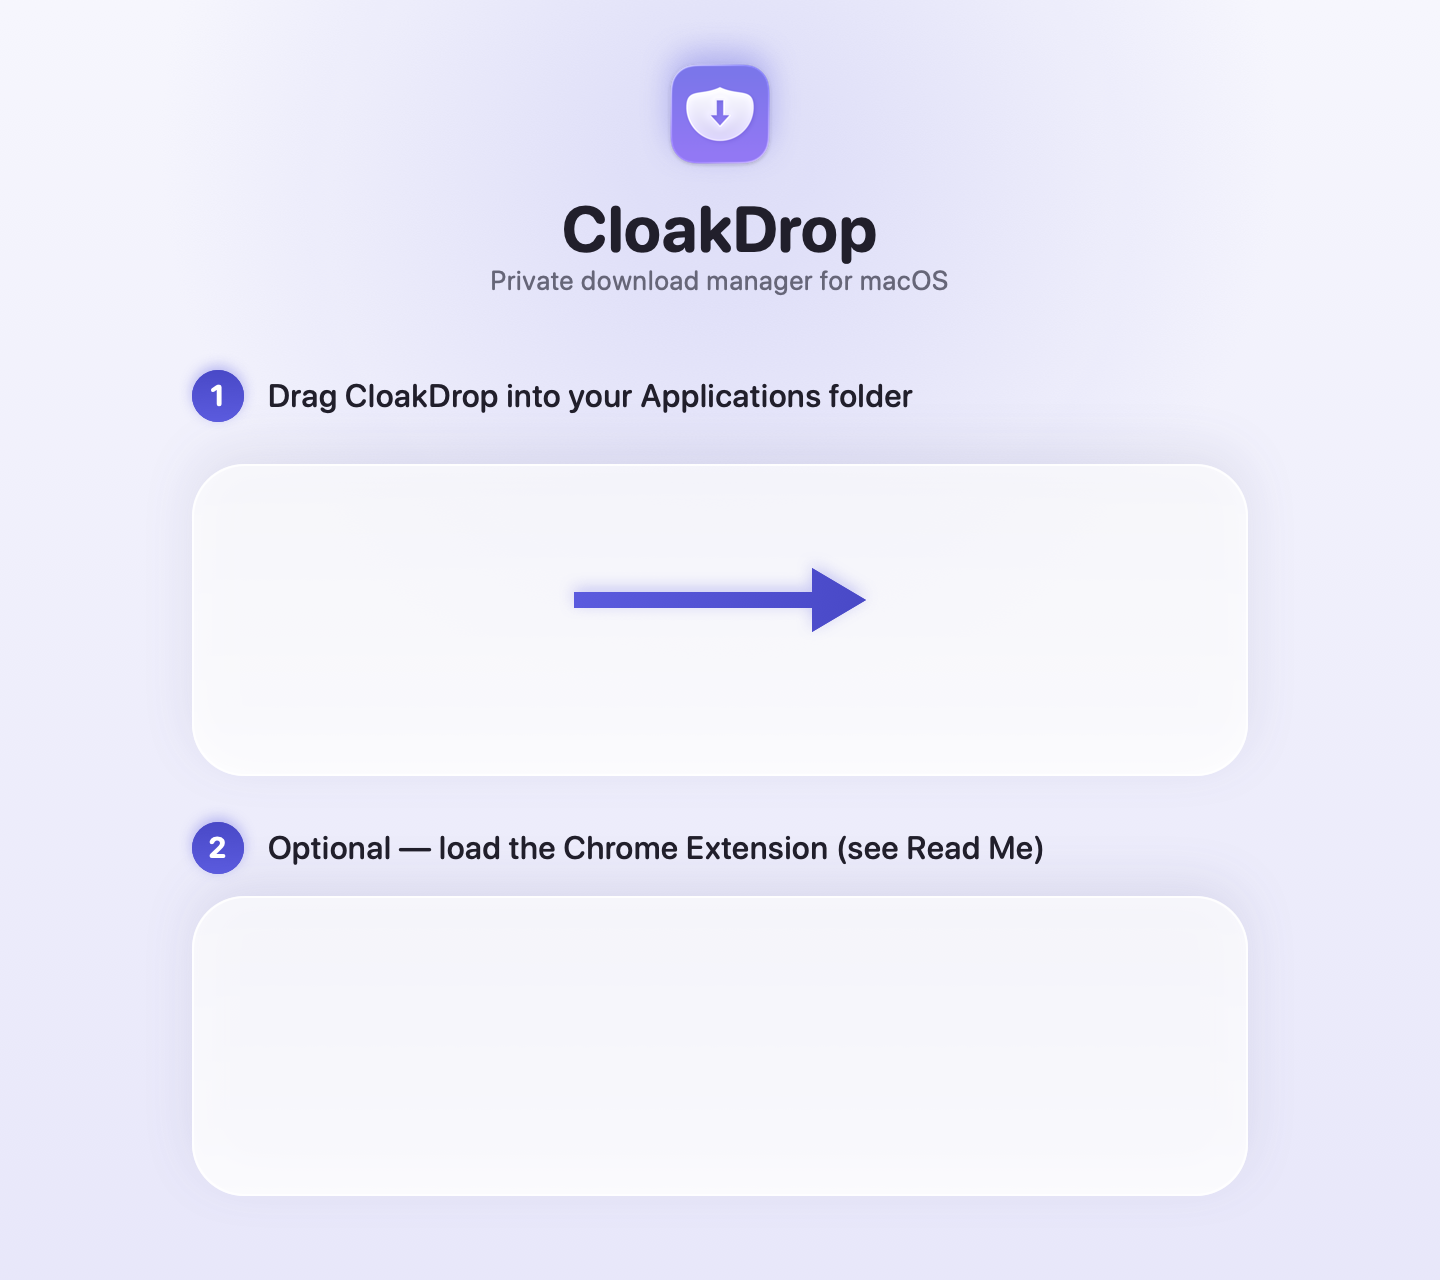
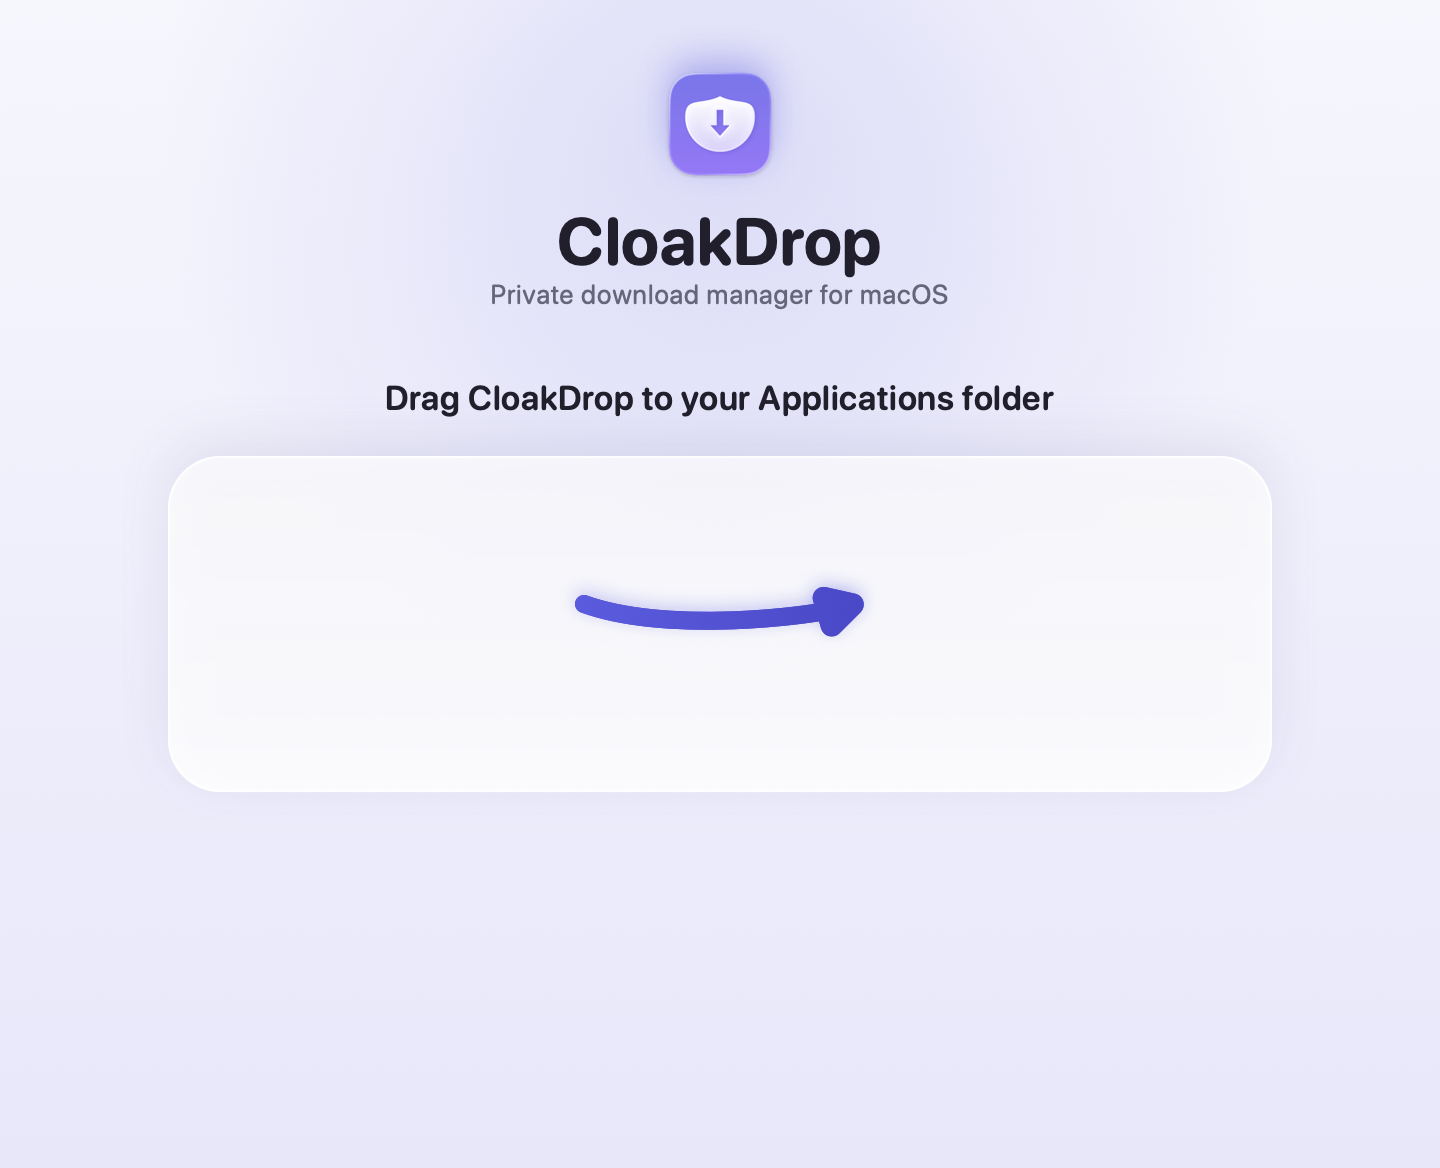
DMG: curved swoosh arrow + cleaner modern layout
- Replace the stiff straight arrow with a gentle curved swoosh: a cubic
  bow with a tangent-aligned, soft-rounded arrowhead. Shaft and head are
  filled as two overlapping pieces (their stroke outlines wind oppositely,
  so a single combined fill punched a hole at the join) — now continuous.
- Drop the numbered step badge for a clean centred instruction; remove the
  caption that overlapped the Read Me icon; taller canvas (560→584) so the
  Read Me label clears the window edge; rebalanced spacing.

Changed region(s): [[0.125, 0.0308, 0.7188, 0.4007], [0.125, 0.6164, 0.7188, 0.6781], [0.375, 0.4315, 0.5938, 0.5548]]

diff --git a/scripts/dmg/background.swift b/scripts/dmg/background.swift
@@ -12,7 +12,7 @@
 import AppKit
 
 let W: CGFloat = 720
-let H: CGFloat = 560
+let H: CGFloat = 584
 
 let iconPath = CommandLine.arguments[1]   // pre-glassed app icon PNG for the header
 let outPath  = CommandLine.arguments[2]
@@ -63,72 +63,78 @@ func drawCard(_ rect: NSRect) {
     border.stroke()
 }
 
-/// A numbered brand badge (with sheen + soft shadow) followed by instruction text, left-aligned to
-/// the card edge so the layout doesn't read as rigidly centered.
-let stepLeftX: CGFloat = 96
-func drawStep(_ number: String, _ text: String, centerY: CGFloat) {
-    let ctx = NSGraphicsContext.current!
-    let badgeD: CGFloat = 26
-    let gap: CGFloat = 12
-    let font = roundedFont(16, .medium)
-    let textStr = NSAttributedString(string: text, attributes: [.font: font, .foregroundColor: ink])
-    let tsz = textStr.size()
-    let startX = stepLeftX
-    let badge = NSRect(x: startX, y: centerY - badgeD / 2, width: badgeD, height: badgeD)
-    let badgePath = NSBezierPath(ovalIn: badge)
-
-    ctx.saveGraphicsState()
-    let shadow = NSShadow()
-    shadow.shadowColor = brand.withAlphaComponent(0.4)
-    shadow.shadowBlurRadius = 7
-    shadow.shadowOffset = NSSize(width: 0, height: -2)
-    shadow.set()
-    brandDeep.setFill()
-    badgePath.fill()
-    ctx.restoreGraphicsState()
-    ctx.saveGraphicsState()
-    badgePath.addClip()
-    NSGradient(colors: [brand, brandDeep])!.draw(in: badge, angle: -90)
-    ctx.restoreGraphicsState()
-
-    let numStr = NSAttributedString(string: number,
-        attributes: [.font: roundedFont(14.5, .bold), .foregroundColor: NSColor.white])
-    let nsz = numStr.size()
-    numStr.draw(at: NSPoint(x: badge.midX - nsz.width / 2, y: badge.midY - nsz.height / 2))
-    textStr.draw(at: NSPoint(x: startX + badgeD + gap, y: centerY - tsz.height / 2))
+/// A soft-tipped instruction line, centred. No number badge — a single step reads cleaner as a
+/// plain subheading than as a rigid "1.".
+func drawInstruction(_ text: String, centerY: CGFloat) {
+    draw(text, roundedFont(17, .semibold), ink, centerX: W / 2, centerY: centerY)
 }
 
-/// One connected polygon — shaft + head as a single filled path, so there's no seam where they
-/// meet. Points right, from x0 to the tip. Filled with a brand gradient and a soft shadow.
-func drawArrow(x0: CGFloat, tipX: CGFloat, y: CGFloat) {
-    let shaftH: CGFloat = 8
-    let headH: CGFloat = 32
-    let headLen: CGFloat = 27
-    let xh = tipX - headLen
-    let p = NSBezierPath()
-    p.move(to: NSPoint(x: x0, y: y - shaftH / 2))
-    p.line(to: NSPoint(x: xh, y: y - shaftH / 2))
-    p.line(to: NSPoint(x: xh, y: y - headH / 2))
-    p.line(to: NSPoint(x: tipX, y: y))
-    p.line(to: NSPoint(x: xh, y: y + headH / 2))
-    p.line(to: NSPoint(x: xh, y: y + shaftH / 2))
-    p.line(to: NSPoint(x: x0, y: y + shaftH / 2))
-    p.close()
+/// A curved "swoosh" arrow from the app icon to the Applications alias — a gentle downward bow with
+/// a tangent-aligned head, so it feels hand-drawn rather than stamped. Stroke + head are unioned
+/// into one region and filled with the brand gradient (soft shadow underneath), so there's no seam.
+func drawCurvedArrow(x0: CGFloat, tipX: CGFloat, y: CGFloat) {
+    let dip: CGFloat = 15          // how far the middle bows below the icon centre line
+    let lineW: CGFloat = 9
+    let headLen: CGFloat = 30
+    let headH: CGFloat = 33
+    let dx = tipX - x0
+
+    // Cubic bow: dips in the first half, flattens as it approaches the head so the tip barely tilts.
+    // The shaft runs almost all the way to the tip; the head then sits *over* its end (see overlap).
+    let pEnd = CGPoint(x: tipX - 8, y: y + dip * 0.10)
+    let p0 = CGPoint(x: x0, y: y)
+    let p1 = CGPoint(x: x0 + dx * 0.30, y: y + dip)
+    let p2 = CGPoint(x: pEnd.x - dx * 0.12, y: y + dip * 0.42)
+    let shaft = CGMutablePath()
+    shaft.move(to: p0)
+    shaft.addCurve(to: pEnd, control1: p1, control2: p2)
+    let stroked = shaft.copy(strokingWithWidth: lineW, lineCap: .round, lineJoin: .round, miterLimit: 10)
+
+    // Arrowhead oriented along the shaft's end tangent. Its base sits `overlap` px *behind* the shaft
+    // end, so the triangle swallows the shaft's rounded cap — the two fills merge with no seam.
+    let tan = CGVector(dx: pEnd.x - p2.x, dy: pEnd.y - p2.y)
+    let mag = max(hypot(tan.dx, tan.dy), 0.001)
+    let ux = tan.dx / mag, uy = tan.dy / mag           // unit along the arrow
+    let nx = -uy, ny = ux                              // unit normal
+    let overlap: CGFloat = 14
+    let baseC = CGPoint(x: pEnd.x - ux * overlap, y: pEnd.y - uy * overlap)
+    let tip = CGPoint(x: baseC.x + ux * headLen, y: baseC.y + uy * headLen)
+    let baseL = CGPoint(x: baseC.x + nx * headH / 2, y: baseC.y + ny * headH / 2)
+    let baseR = CGPoint(x: baseC.x - nx * headH / 2, y: baseC.y - ny * headH / 2)
+    // Rounded triangle: each corner is a tangent arc, so the tip and wings are soft, not sharp.
+    let corner: CGFloat = 5.5
+    let head = CGMutablePath()
+    head.move(to: CGPoint(x: (baseR.x + tip.x) / 2, y: (baseR.y + tip.y) / 2))   // start mid-edge, off any corner
+    head.addArc(tangent1End: tip, tangent2End: baseL, radius: corner)
+    head.addArc(tangent1End: baseL, tangent2End: baseR, radius: corner)
+    head.addArc(tangent1End: baseR, tangent2End: tip, radius: corner)
+    head.closeSubpath()
+
+    // Fill the shaft and head as two independent, overlapping pieces — NOT one combined path.
+    // (Their stroke outlines wind oppositely, so a single nonzero/even-odd fill would punch a hole
+    // at the overlap.) Overlapping solid fills merge cleanly into one continuous arrow.
+    let shaftPath = NSBezierPath(cgPath: stroked)
+    let headPath = NSBezierPath(cgPath: head)
+    let bounds = stroked.boundingBoxOfPath.union(head.boundingBoxOfPath)
 
     let ctx = NSGraphicsContext.current!
     ctx.saveGraphicsState()
     let shadow = NSShadow()
     shadow.shadowColor = brand.withAlphaComponent(0.3)
-    shadow.shadowBlurRadius = 8
+    shadow.shadowBlurRadius = 9
     shadow.shadowOffset = NSSize(width: 0, height: -2)
     shadow.set()
     brandDeep.setFill()
-    p.fill()
+    shaftPath.fill()
+    headPath.fill()
     ctx.restoreGraphicsState()
-    ctx.saveGraphicsState()
-    p.addClip()
-    NSGradient(colors: [brand, brandDeep])!.draw(in: p.bounds, angle: 0)
-    ctx.restoreGraphicsState()
+    // Brand gradient, clipped to each piece over their shared bounds so it reads as one shape.
+    for piece in [shaftPath, headPath] {
+        ctx.saveGraphicsState()
+        piece.addClip()
+        NSGradient(colors: [brand, brandDeep])!.draw(in: bounds, angle: 0)
+        ctx.restoreGraphicsState()
+    }
 }
 
 let image = NSImage(size: NSSize(width: W, height: H), flipped: true) { _ in
@@ -142,30 +148,30 @@ let image = NSImage(size: NSSize(width: W, height: H), flipped: true) { _ in
     }
 
     // Framed well behind the drag-to-install icon row (Finder overlays the real icons on top).
-    drawCard(NSRect(x: 96, y: 232, width: 528, height: 152))    // install row
+    drawCard(NSRect(x: 84, y: 228, width: 552, height: 168))    // install row
 
     // Header: logo, wordmark, tagline.
     if let logo = NSImage(contentsOfFile: iconPath) {
-        let box = NSRect(x: W / 2 - 31, y: 26, width: 62, height: 62)
+        let box = NSRect(x: W / 2 - 32, y: 30, width: 64, height: 64)
         let shadow = NSShadow()
         shadow.shadowColor = brand.withAlphaComponent(0.38)
-        shadow.shadowBlurRadius = 16
+        shadow.shadowBlurRadius = 17
         shadow.shadowOffset = NSSize(width: 0, height: -6)
         NSGraphicsContext.current?.saveGraphicsState()
         shadow.set()
         logo.draw(in: box)
         NSGraphicsContext.current?.restoreGraphicsState()
     }
-    draw("CloakDrop", roundedFont(32, .bold), ink, centerX: W / 2, centerY: 114)
-    draw("Private download manager for macOS", roundedFont(13.5, .regular), secondary, centerX: W / 2, centerY: 140)
+    draw("CloakDrop", roundedFont(33, .bold), ink, centerX: W / 2, centerY: 120)
+    draw("Private download manager for macOS", roundedFont(13.5, .regular), secondary, centerX: W / 2, centerY: 147)
 
-    // The one step. The arrow bridges the app icon and Applications alias placed by Finder at y=296.
-    drawStep("1", "Drag CloakDrop into your Applications folder", centerY: 196)
-    drawArrow(x0: 287, tipX: 433, y: 296)
+    // One clean instruction, then the curved arrow bridging the app icon and the Applications alias
+    // (Finder places both at y=302 inside the card).
+    drawInstruction("Drag CloakDrop to your Applications folder", centerY: 199)
+    drawCurvedArrow(x0: 292, tipX: 430, y: 302)
 
-    // A quiet caption above the "Read Me.txt" Finder icon (placed at y=470).
-    draw("New here? Open Read Me for a 20-second tour.",
-         roundedFont(12.5, .regular), secondary, centerX: W / 2, centerY: 424)
+    // "Read Me.txt" (placed by Finder at y=486) sits on its own below the card — its label speaks
+    // for itself, so nothing overlaps it.
 
     return true
 }
